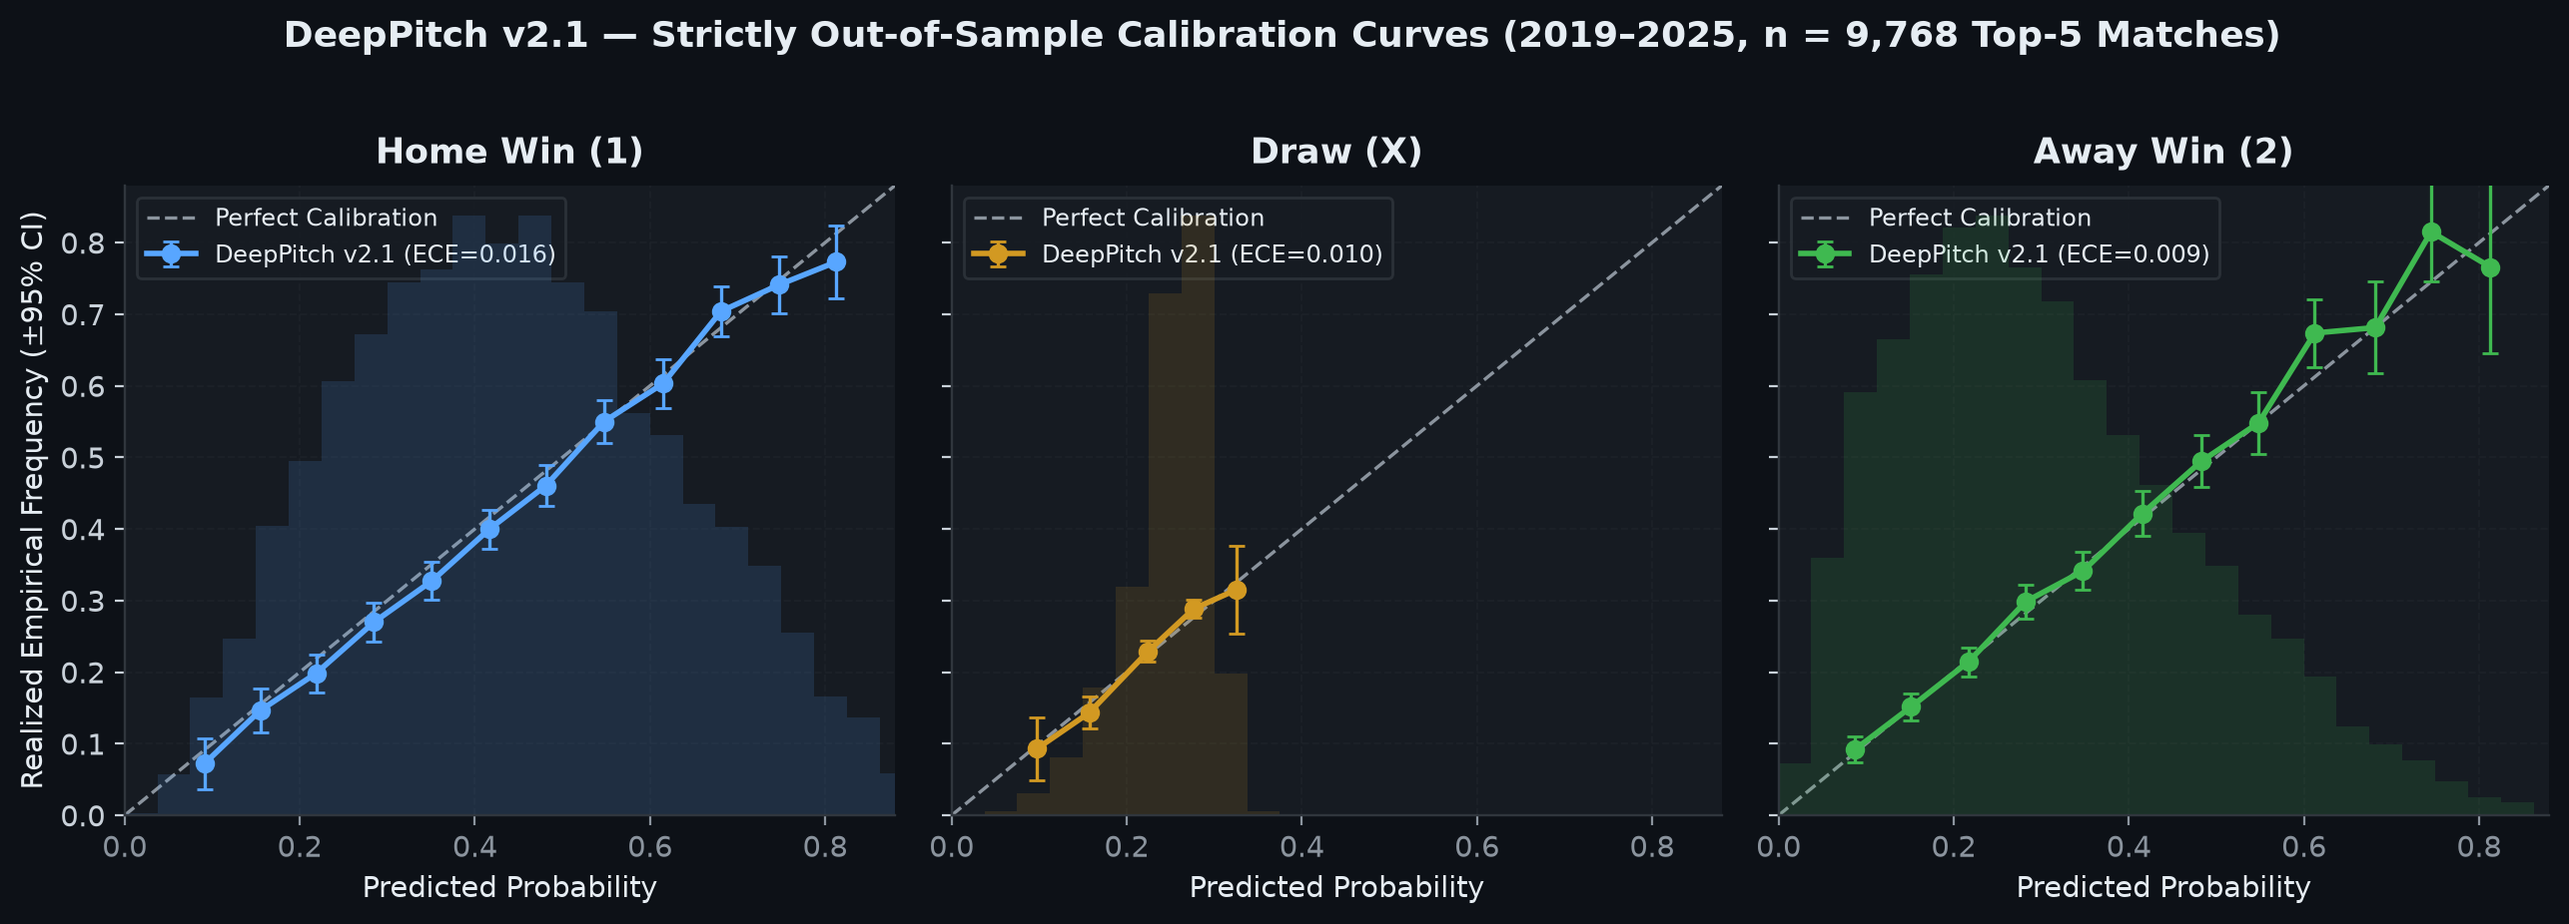
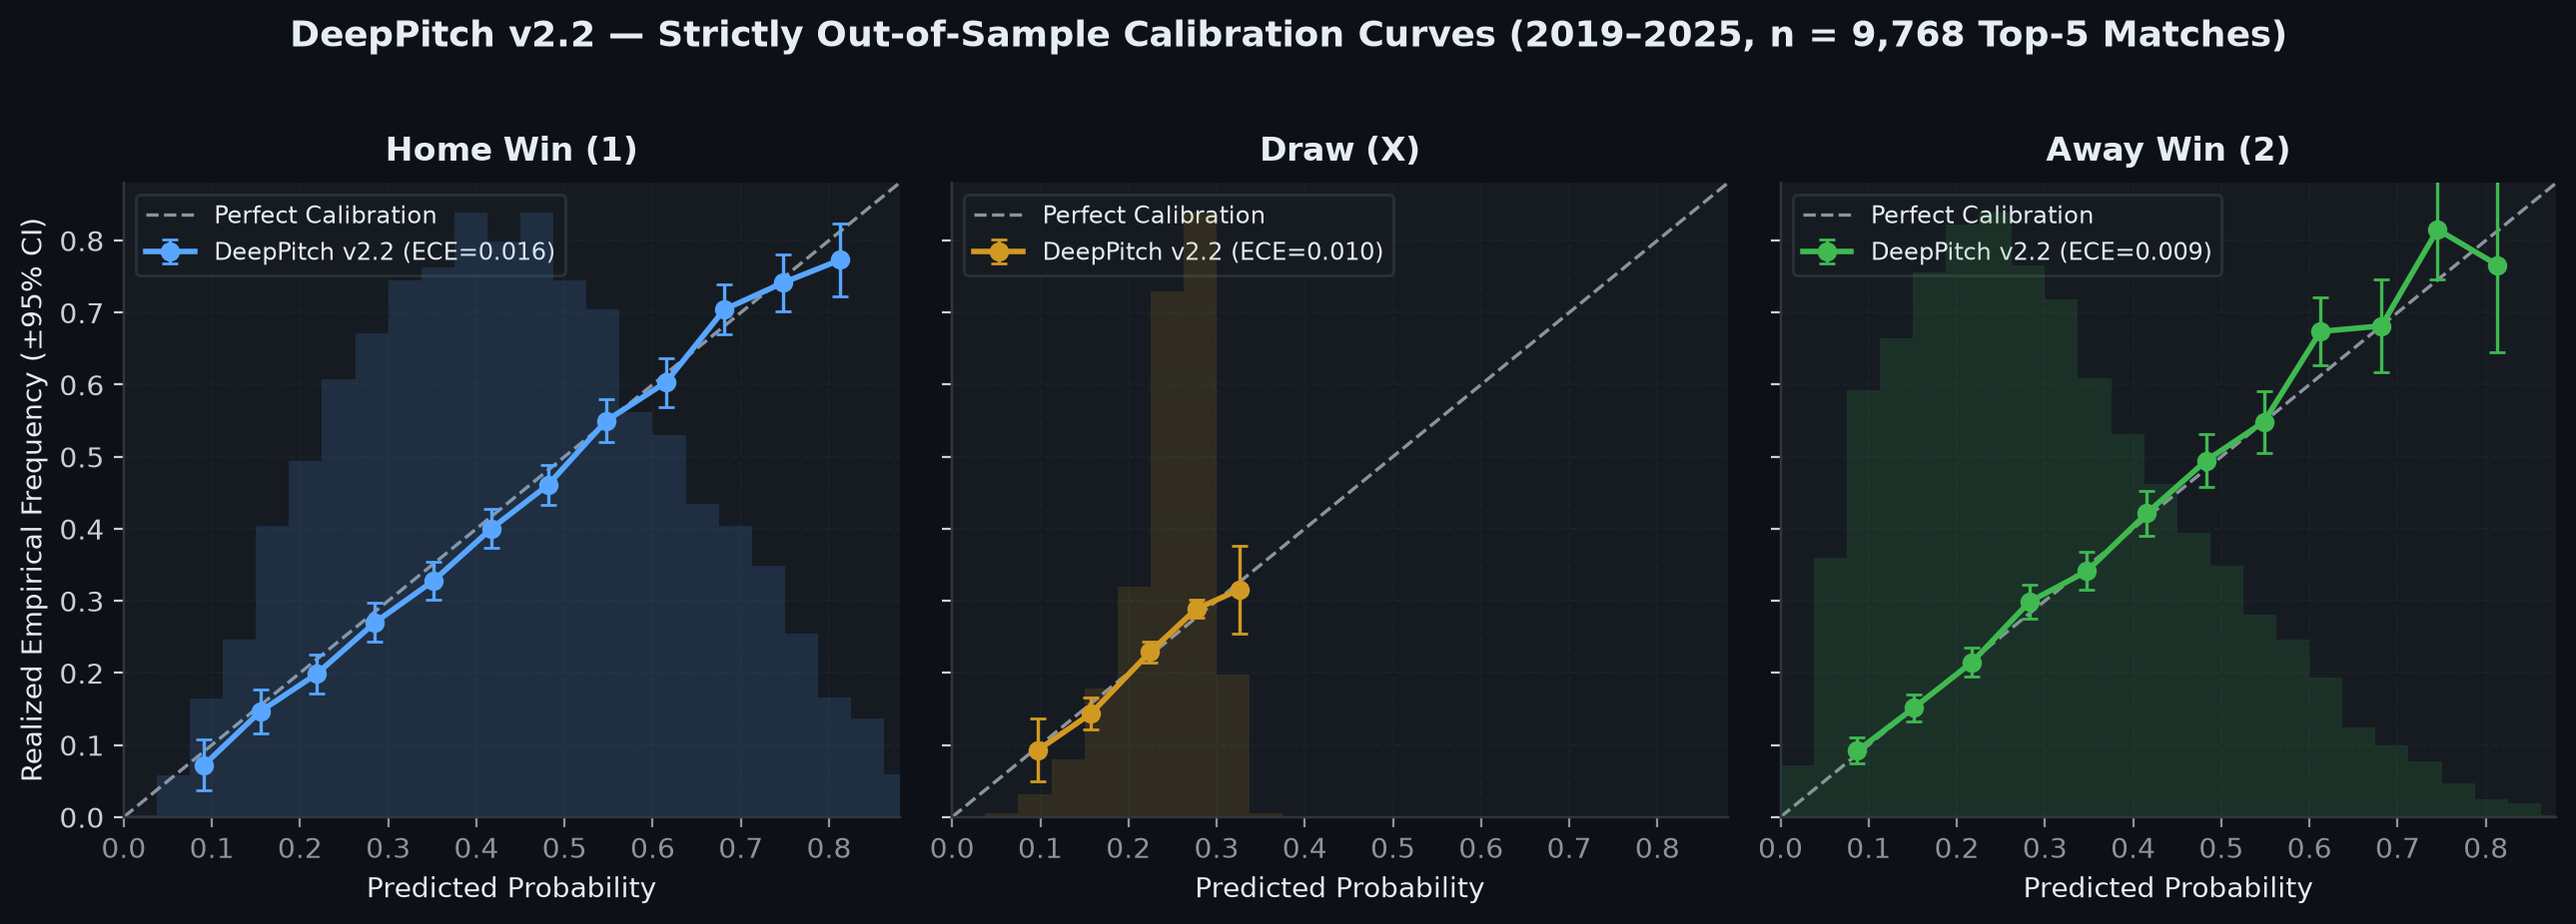
docs: update all charts to v2.2 and add 10% bucket calibration chart (06_calibration_deciles.png)

diff --git a/README.md b/README.md
@@ -97,11 +97,15 @@ Evaluated on the exact **16,268 Top-5 historical dataset** (`2015–2025`) using
 * **All 6 Seasons OOS (`9,768` matches `2019–2025`):** `v2.1` improves over `v2.0` by `-0.00045` Brier (`z = -2.11`, `p = 0.035`), nearly doubling realized CLV vs Pinnacle Close (`+0.30% → +0.61%` on `MaxOdds`, `EV ∈ [2.5%, 6.0%)`: `+3.47%` ROI, `€1,000 → €2,214`).
 
 <p align="center">
-  <img src="docs/charts/01_brier_ablation.png" alt="DeepPitch v2.1 Out-of-Sample Brier Progression" width="94%" />
+  <img src="docs/charts/01_brier_ablation.png" alt="DeepPitch v2.2 Out-of-Sample Brier Progression" width="94%" />
 </p>
 
 <p align="center">
-  <img src="docs/charts/02_calibration_reliability.png" alt="DeepPitch v2.1 6-Season OOS Reliability Curves" width="98%" />
+  <img src="docs/charts/02_calibration_reliability.png" alt="DeepPitch v2.2 6-Season OOS Reliability Curves" width="98%" />
+</p>
+
+<p align="center">
+  <img src="docs/charts/06_calibration_deciles.png" alt="DeepPitch v2.2 Probability Calibration by 10% Buckets (1X2 & Over/Under 2.5)" width="98%" />
 </p>
 
 ### 2. Live Blind Validation on `2026/27` (`Aug–Nov 2026`) — Impact of Fresh Injuries & Lineups
@@ -132,7 +136,7 @@ Why **`EV ∈ [2.5%, 6.0%)`**? Empirical diagnostics across `9,768` OOS matches 
 *(Max Drawdown over all 6 seasons compounded: `34.1%`; on the Blind `2024/25` season: `16.7%`. Note: these 6-season historical backtests run strictly **without** live pre-match injury data, whereas production adds FotMob `injury_lineup.py` fresh-starter adjustments & trap blocking.)*
 
 <p align="center">
-  <img src="docs/charts/03_oos_equity_and_ev_band.png" alt="DeepPitch v2.1 6-Season OOS Quarter-Kelly Equity and Adverse Selection EV Band" width="98%" />
+  <img src="docs/charts/03_oos_equity_and_ev_band.png" alt="DeepPitch v2.2 6-Season OOS Quarter-Kelly Equity and Adverse Selection EV Band" width="98%" />
 </p>
 
 ### 4. Dual-Market Expansion: Over / Under 2.5 Goals (`v2.2`, `EV ∈ [2.5%, 8.0%)`)
